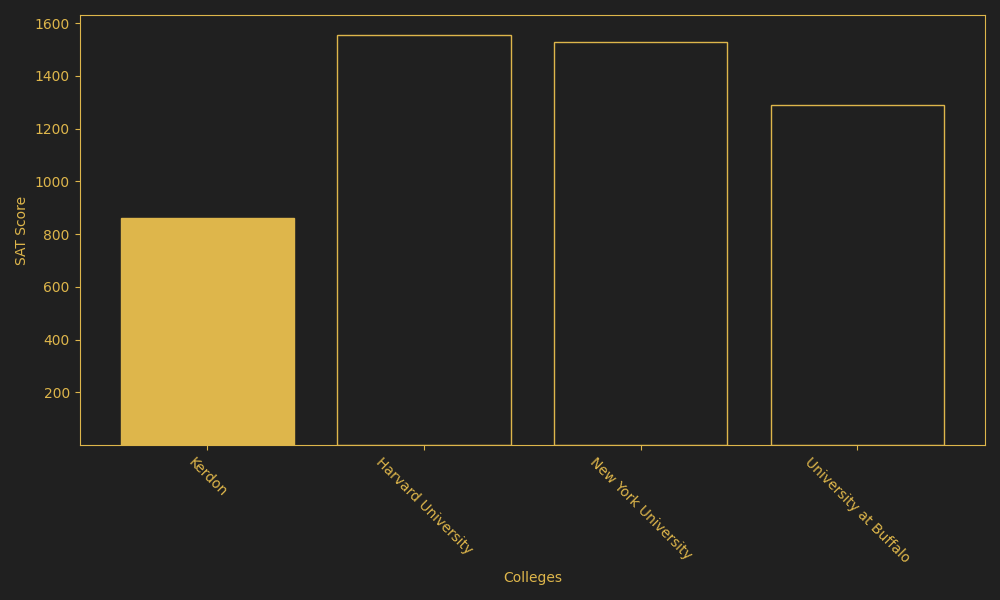
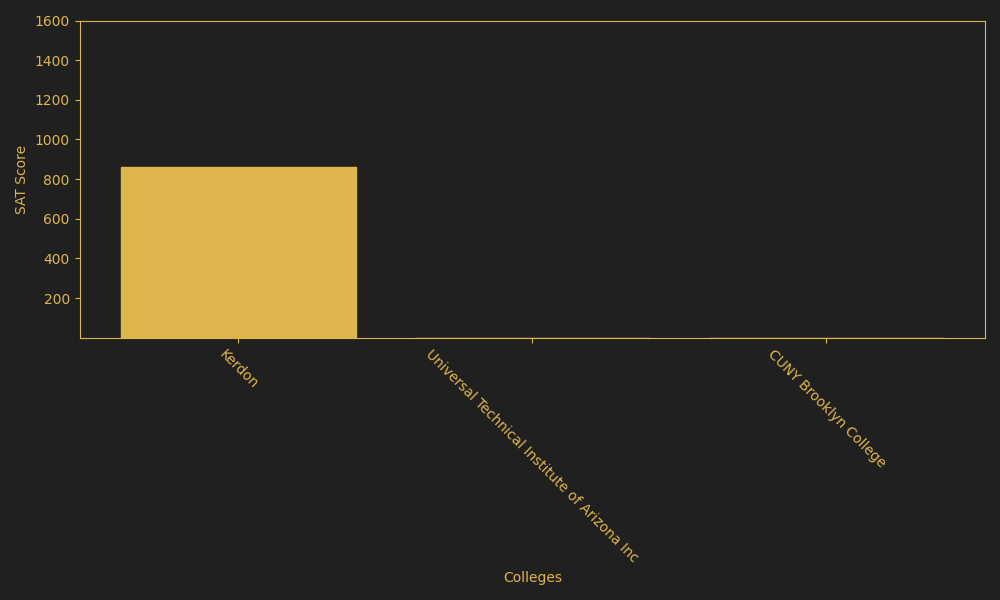
(IGNORE THE TEXT ON TOP)

diff --git a/main.py b/main.py
@@ -183,6 +183,7 @@ def login_page():
 # Browse colleges
 @app.route("/browse", methods=["Post", "GET"])
 def browse():
+    
     #Browse area
     page = int(request.args.get('page', '1'))
     query = request.args.get('query')
@@ -220,12 +221,30 @@ def browse():
 # Analytics page (college and user graphs for comparison and analysis)
 @app.route("/analytics", methods=["Post", "GET"])
 def analytics_page():
-    return render_template('analytics.html.jinja')
+    
+    customer_id=flask_login.current_user.id
+
+    conn = connect_db()
+    cursor = conn.cursor()
+    
+    cursor.execute(f"""
+
+    SELECT `name`, `tuition`, `admission_rate`, `average_sat`, `size`, `city`, `state`, `longitude`, `latitude`
+    FROM `CollegeList`
+    LEFT JOIN `Colleges`
+    ON `CollegeList`.`college_id` = `Colleges`.`id`
+    AND `CollegeList`.`user_id`= %s 
+    WHERE `name` 
+            """,(customer_id))
+    
+    colleges=cursor.fetchall()
+    
+    return render_template('analytics.html.jinja', colleges=colleges)
 
 @app.route('/plot.png')
 def plot():
-    #Constant id (change to dynamic later)
-    customer_id=1
+    #User id (dynamic)
+    customer_id=flask_login.current_user.id
 
     #Settings for which graph to generate (will change dynamically)
     comparing_catagory=1
@@ -265,7 +284,7 @@ def plot():
     FROM `CollegeList`
     LEFT JOIN `Colleges`
     ON `CollegeList`.`college_id` = `Colleges`.`id`
-    AND `CollegeList`.`user_id`= %s 
+    WHERE `CollegeList`.`user_id`= %s 
             """,(customer_id))
 
     #Stores college results
